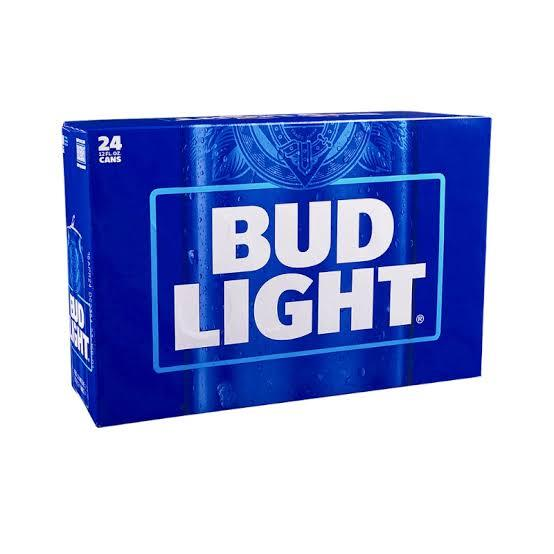
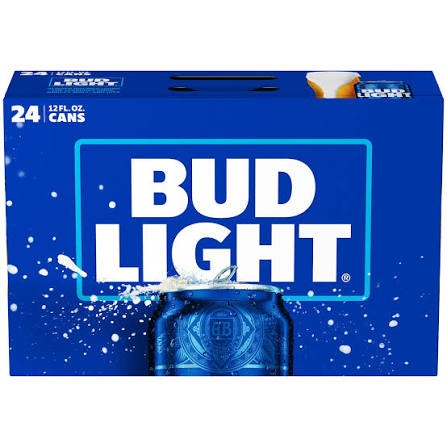
Fill in Specials On Sale cards with domestic beer deals
Six real products with photos, sale price, and struck-through original
price: Miller Lite, Coors Light, Michelob Ultra, Bud Light 24-packs
($22.99, was $24.99) and Keystone Light, Natural Light 30-packs
($17.99, was $19.99). Remove the discount badges and end-date notes
from every card along with their CSS, and style .on-sale-image for
real photos (white background, object-fit: contain).

diff --git a/specials.html b/specials.html
@@ -126,87 +126,87 @@
       <h2>On Sale</h2>
       <div class="on-sale-grid">
 
-        <!-- On sale card 1: Spirits -->
+        <!-- On sale card 1: Miller Lite -->
         <div class="on-sale-card">
-          <span class="on-sale-badge">20% Off</span>
-          <div class="on-sale-image">Product photo</div>
-          <h3 class="on-sale-name">[Spirit Name]</h3>
-          <p class="on-sale-meta">Spirits &middot; 750ml</p>
+          <div class="on-sale-image">
+            <img src="assets/products/domestic-miller-lite-24pk-cans.jpg" alt="Miller Lite, 24-pack cans" loading="lazy">
+          </div>
+          <h3 class="on-sale-name">Miller Lite</h3>
+          <p class="on-sale-meta">Beer &middot; 24-pack cans</p>
           <p class="on-sale-price-row">
-            <span class="on-sale-price">$[XX.99]</span>
-            <span class="on-sale-price-old">$[XX.99]</span>
+            <span class="on-sale-price">$22.99</span>
+            <span class="on-sale-price-old">$24.99</span>
           </p>
-          <p class="on-sale-note">Ends [date] &middot; While supplies last</p>
         </div>
         <!-- End on sale card 1 -->
 
-        <!-- On sale card 2: Wine -->
+        <!-- On sale card 2: Coors Light -->
         <div class="on-sale-card">
-          <span class="on-sale-badge">Buy 2 Get 1</span>
-          <div class="on-sale-image">Product photo</div>
-          <h3 class="on-sale-name">[Wine Name]</h3>
-          <p class="on-sale-meta">Wine &middot; 750ml</p>
+          <div class="on-sale-image">
+            <img src="assets/products/domestic-coors-light-24pk-cans.jpg" alt="Coors Light, 24-pack cans" loading="lazy">
+          </div>
+          <h3 class="on-sale-name">Coors Light</h3>
+          <p class="on-sale-meta">Beer &middot; 24-pack cans</p>
           <p class="on-sale-price-row">
-            <span class="on-sale-price">$[XX.99]</span>
-            <span class="on-sale-price-note">each, mix &amp; match</span>
+            <span class="on-sale-price">$22.99</span>
+            <span class="on-sale-price-old">$24.99</span>
           </p>
-          <p class="on-sale-note">Ends [date] &middot; While supplies last</p>
         </div>
         <!-- End on sale card 2 -->
 
-        <!-- On sale card 3: Beer -->
+        <!-- On sale card 3: Michelob Ultra -->
         <div class="on-sale-card">
-          <span class="on-sale-badge">$3 Off</span>
-          <div class="on-sale-image">Product photo</div>
-          <h3 class="on-sale-name">[Beer Name]</h3>
-          <p class="on-sale-meta">Beer &middot; 12-pack</p>
+          <div class="on-sale-image">
+            <img src="assets/products/domestic-michelob-ultra-24pk-cans.jpg" alt="Michelob Ultra, 24-pack cans" loading="lazy">
+          </div>
+          <h3 class="on-sale-name">Michelob Ultra</h3>
+          <p class="on-sale-meta">Beer &middot; 24-pack cans</p>
           <p class="on-sale-price-row">
-            <span class="on-sale-price">$[XX.99]</span>
-            <span class="on-sale-price-old">$[XX.99]</span>
+            <span class="on-sale-price">$22.99</span>
+            <span class="on-sale-price-old">$24.99</span>
           </p>
-          <p class="on-sale-note">Ends [date] &middot; While supplies last</p>
         </div>
         <!-- End on sale card 3 -->
 
-        <!-- On sale card 4: Ready-to-Drink -->
+        <!-- On sale card 4: Bud Light -->
         <div class="on-sale-card">
-          <span class="on-sale-badge">15% Off</span>
-          <div class="on-sale-image">Product photo</div>
-          <h3 class="on-sale-name">[RTD Cocktail Name]</h3>
-          <p class="on-sale-meta">Ready-to-Drink &middot; 4-pack</p>
+          <div class="on-sale-image">
+            <img src="assets/products/domestic-bud-light-24pk-cans.jpg" alt="Bud Light, 24-pack cans" loading="lazy">
+          </div>
+          <h3 class="on-sale-name">Bud Light</h3>
+          <p class="on-sale-meta">Beer &middot; 24-pack cans</p>
           <p class="on-sale-price-row">
-            <span class="on-sale-price">$[XX.99]</span>
-            <span class="on-sale-price-old">$[XX.99]</span>
+            <span class="on-sale-price">$22.99</span>
+            <span class="on-sale-price-old">$24.99</span>
           </p>
-          <p class="on-sale-note">Ends [date] &middot; While supplies last</p>
         </div>
         <!-- End on sale card 4 -->
 
-        <!-- On sale card 5: Mixers -->
+        <!-- On sale card 5: Keystone Light -->
         <div class="on-sale-card">
-          <span class="on-sale-badge">2 for $[X]</span>
-          <div class="on-sale-image">Product photo</div>
-          <h3 class="on-sale-name">[Mixer Name]</h3>
-          <p class="on-sale-meta">Mixers &middot; 1L</p>
+          <div class="on-sale-image">
+            <img src="assets/products/domestic-keystone-light-30pk-cans.jpg" alt="Keystone Light, 30-pack cans" loading="lazy">
+          </div>
+          <h3 class="on-sale-name">Keystone Light</h3>
+          <p class="on-sale-meta">Beer &middot; 30-pack cans</p>
           <p class="on-sale-price-row">
-            <span class="on-sale-price">$[X.99]</span>
-            <span class="on-sale-price-note">for two</span>
+            <span class="on-sale-price">$17.99</span>
+            <span class="on-sale-price-old">$19.99</span>
           </p>
-          <p class="on-sale-note">Ends [date] &middot; While supplies last</p>
         </div>
         <!-- End on sale card 5 -->
 
-        <!-- On sale card 6: Spirits #2 -->
+        <!-- On sale card 6: Natural Light -->
         <div class="on-sale-card">
-          <span class="on-sale-badge">$5 Off</span>
-          <div class="on-sale-image">Product photo</div>
-          <h3 class="on-sale-name">[Spirit Name #2]</h3>
-          <p class="on-sale-meta">Spirits &middot; 750ml</p>
+          <div class="on-sale-image">
+            <img src="assets/products/domestic-natural-light-30pk-cans.jpg" alt="Natural Light, 30-pack cans" loading="lazy">
+          </div>
+          <h3 class="on-sale-name">Natural Light</h3>
+          <p class="on-sale-meta">Beer &middot; 30-pack cans</p>
           <p class="on-sale-price-row">
-            <span class="on-sale-price">$[XX.99]</span>
-            <span class="on-sale-price-old">$[XX.99]</span>
+            <span class="on-sale-price">$17.99</span>
+            <span class="on-sale-price-old">$19.99</span>
           </p>
-          <p class="on-sale-note">Ends [date] &middot; While supplies last</p>
         </div>
         <!-- End on sale card 6 -->
 

diff --git a/css/styles.css b/css/styles.css
@@ -788,31 +788,21 @@ a:focus-visible, button:focus-visible {
   padding: 16px;
 }
 
-.on-sale-badge {
-  position: absolute;
-  top: 12px;
-  right: 12px;
-  background: var(--red);
-  color: var(--white);
-  font-family: var(--font-display);
-  font-weight: 700;
-  font-size: 0.7rem;
-  letter-spacing: 0.03em;
-  padding: 4px 10px;
-  border-radius: 999px;
-}
-
+/* White so white-backdrop product shots blend into the card;
+   object-fit: contain so a case photo is never cropped. */
 .on-sale-image {
   aspect-ratio: 1 / 1;
-  border: 1px dashed rgba(26,26,26,0.15);
   border-radius: 6px;
-  background: var(--off-white);
-  display: flex;
-  align-items: center;
-  justify-content: center;
-  color: #999;
-  font-size: 0.85rem;
+  background: var(--white);
   margin-bottom: 14px;
+  overflow: hidden;
+}
+
+.on-sale-image img {
+  display: block;
+  width: 100%;
+  height: 100%;
+  object-fit: contain;
 }
 
 .on-sale-name {
@@ -843,18 +833,6 @@ a:focus-visible, button:focus-visible {
   text-decoration: line-through;
   font-size: 0.9rem;
   margin-left: 4px;
-}
-
-.on-sale-price-note {
-  color: #777;
-  font-size: 0.85rem;
-  margin-left: 4px;
-}
-
-.on-sale-note {
-  color: #888;
-  font-size: 0.8rem;
-  margin: 8px 0 0;
 }
 
 

diff --git a/CLAUDE.md b/CLAUDE.md
@@ -59,7 +59,7 @@ The script always checks the time in Carterville (`America/Chicago`) via two `In
 - **Subcategory sections** (`.product-section`, one per subcategory, each with a semantic `id` like `#bourbon` — not `#section-1`, since these double as deep links). Each has one `<h2>` (never skip to `<h3>` without it), a one-sentence blurb in `.product-section-intro`, and a `.product-grid` of `.product-card`s (5 per subcategory on `spirits.html`).
 - **Product cards** (`.product-card`), each wrapped in `<!-- Product card: <Subcategory> N --> ... <!-- End product card: <Subcategory> N -->` comments, mirroring the `specials.html` on-sale-card convention so the site owner can find and swap individual products easily. Structure: `.product-card-image` (a fixed-aspect-ratio div with a neutral background-color fallback so a missing photo never breaks layout or shows a broken-image icon) containing an `<img>`, then `.product-card-name` (`<h3>`) and `.product-card-meta` (category/size line). No pricing field — this site doesn't show prices on category pages.
 - **Product images**: point every `<img src>` at `assets/products/<slug>.jpg` even before the file exists, using a consistent kebab-case naming convention: `<category>-<brand-and-product>-<size>.jpg` (e.g. `assets/products/bourbon-makers-mark-750ml.jpg`, `assets/products/vodka-smirnoff-no21-1-75l.jpg` — periods in sizes like `1.75L` become `1-75l`). Write real, descriptive `alt` text (brand + product + size) now; dropping a correctly named file into `assets/products/` later requires no HTML changes.
-- **Badge** (`.product-badge`): a single optional `<span class="product-badge">Label</span>` as the first child of a `.product-card`, positioned absolute so it overlays the card's top-right corner (same technique as `.on-sale-badge` on `specials.html`). Reused for all badge copy ("Staff Pick", "Local Favorite", "New Arrival", "Everyday Value") — it's one class, not one per label; just add or remove the `<span>` per product. Use on only 1–2 cards per subcategory section.
+- **Badge** (`.product-badge`): a single optional `<span class="product-badge">Label</span>` as the first child of a `.product-card`, positioned absolute so it overlays the card's top-right corner. Reused for all badge copy ("Staff Pick", "Local Favorite", "New Arrival", "Everyday Value") — it's one class, not one per label; just add or remove the `<span>` per product. Use on only 1–2 cards per subcategory section.
 - **"Not exhaustive" messaging**: these pages show a sample of in-store products, not the full inventory, so the intro callout below the H1 and the closing CTA both explicitly say so and point people to call or stop in for anything not pictured — don't let either read like a complete catalog.
 - **Page-header callout** (`.page-header-callout`): wraps the `.page-header-sub` paragraph in a rounded, `--red`-bordered box on the page's cream `--off-white` background, sitting right below the `<h1>`. The copy always opens with "This page is just a sample of what we carry." before the category-specific sentence. Deliberately styled differently from the Visit Us CTA at the bottom (cream + red outline here vs. the solid `--maroon` panel there) so the two don't read as the same component.
 - **Visit Us CTA** (`.visit-cta`): a standalone callout before `</main>`, deliberately *not* styled like the footer it sits above — the outer `.visit-cta` section keeps the page's cream `--off-white` background (not `--ink`), and the actual content lives in a `.visit-cta-panel`: a rounded, `--red`-bordered card using the dedicated `--maroon` token (a deep oxblood, distinct from both `--ink` and `--off-white`) so it visually pops as its own element instead of merging into the black footer below. Inside `.visit-cta-panel` is `.visit-cta-inner`, a single centered column: a headline + `.visit-cta-desc` blurb reiterating that the page is just a sample of what's carried in-store, plus `.visit-cta-actions` with a `tel:` call button and a "Get Directions" link (reusing `.btn`/`.btn-primary`/`.btn-ghost`). No hours/address here — that lives in the footer immediately below; keep the two in sync if hours or location ever change.
@@ -73,7 +73,7 @@ The script always checks the time in Carterville (`America/Chicago`) via two `In
 
 **Specials page** (`specials.html`, replaced `deals.html`) uses customer-facing section names, not internal ones, and is deliberately just one page with (up to) three sections rather than a `deal-of-week` hero plus a separate grid plus a separate recurring-specials section the way the old page did. Order: New Arrivals, On Sale, then the signup:
 - **New Arrivals** (`.new-arrivals`, `id="new-arrivals"`), first on the page. While there's only one new arrival, it's a single full-width `.arrival-feature` card (`<article>`, wrapped in `<!-- New arrival feature: <Name> --> … <!-- End new arrival feature -->`): image left (`.arrival-feature-image`, white background so white-backdrop bottle shots blend in, `object-fit: contain` so they never crop — crop product photos tight to the bottle first, or it renders small) and body right, with a "New Arrival" `.arrival-feature-badge` (inline, not the absolute-positioned `.product-badge`), name, meta line, a brand-voice description, a `<dl class="arrival-feature-notes">` of Nose/Palate/Finish tasting notes, and `.arrival-feature-price` (nothing below the price). It stacks to one column at `max-width: 700px`. **This card shows a price** — the "no pricing" rule is for the product category pages only. Currently Weller Antique 107 ($99.99, image `assets/products/bourbon-weller-antique-107-750ml.jpg`; copy paraphrased from Buffalo Trace's product page). Once several new arrivals run at once, switch to a `.new-arrivals-grid` of `.product-card`s (the CSS is kept for this), each with a "New Arrival" `.product-badge`, matching the category pages.
-- **On Sale** (`.on-sale`, `id="on-sale"`): discounted products — kept "plain and scannable" per the site owner's own framing, so it's one `.on-sale-grid` of 6 `.on-sale-card`s (badge/image/name/meta/price/note), each wrapped in `<!-- On sale card N --> … <!-- End on sale card N -->` comments. Still bracketed placeholders until the site owner fills them in. (The old "Standing Weekly Specials" subsection — Wine Wednesday etc. — was removed along with its `.recurring-*` CSS.)
+- **On Sale** (`.on-sale`, `id="on-sale"`): discounted products — kept "plain and scannable" per the site owner's own framing, so it's one `.on-sale-grid` of 6 `.on-sale-card`s — image (`.on-sale-image` wrapping an `<img>`, white background, `object-fit: contain`), name, meta line, and a sale price plus struck-through original price — each wrapped in `<!-- On sale card N: <Product> --> … <!-- End on sale card N -->` comments. No discount badge and no end-date note (both removed). Product photos reuse the Beer page's `assets/products/domestic-<brand>-<pack>-cans.jpg` naming. (The old "Standing Weekly Specials" subsection — Wine Wednesday etc. — was removed along with its `.recurring-*` CSS.)
 - **Staff Picks** — hidden on purpose until the site owner is actually hand-picking items (an honest "Featured" would be the fallback name if that's not true). Currently just an HTML comment after On Sale explaining how to add it later: a `.product-card` grid, each card with a "Staff Pick" `.product-badge`, section `id="staff-picks"`.
 - **Special Alert Signup** (`.special-alert` / `.special-alert-panel` / `.special-alert-embed`, renamed from `.deal-alert*`): the same Zite embed as before — see **Third-party embed**. Its own generated copy still says "Never Miss A Deal" since that text lives inside the externally-generated snippet, not in this repo; that's a known, accepted inconsistency until the snippet is regenerated externally.
 - Page `<h1>` is "Specials & New Arrivals"; the intro line under it should stay in brand voice and avoid keyword-stacking (see the Hero H1 precedent).
